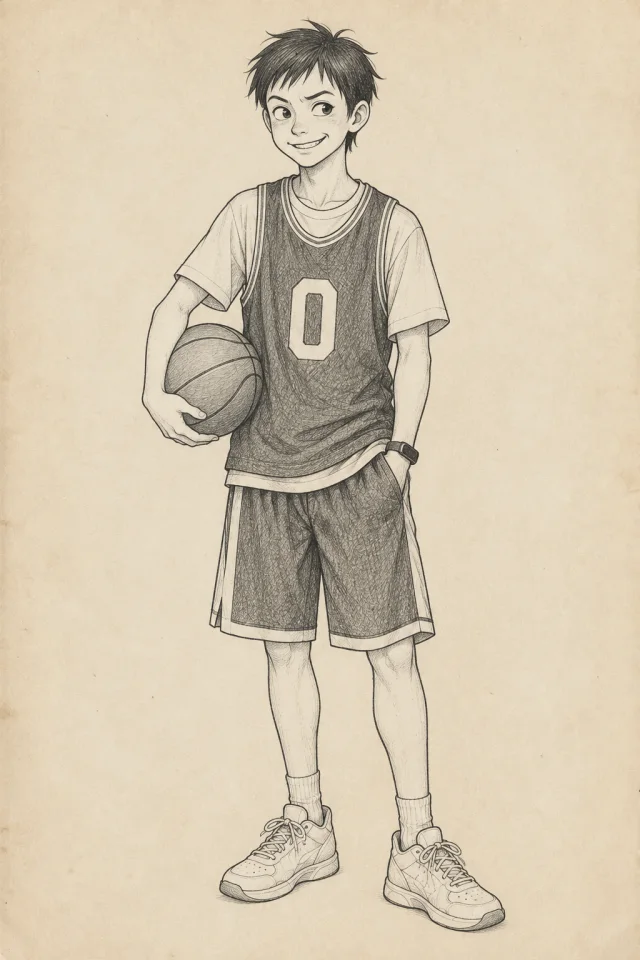
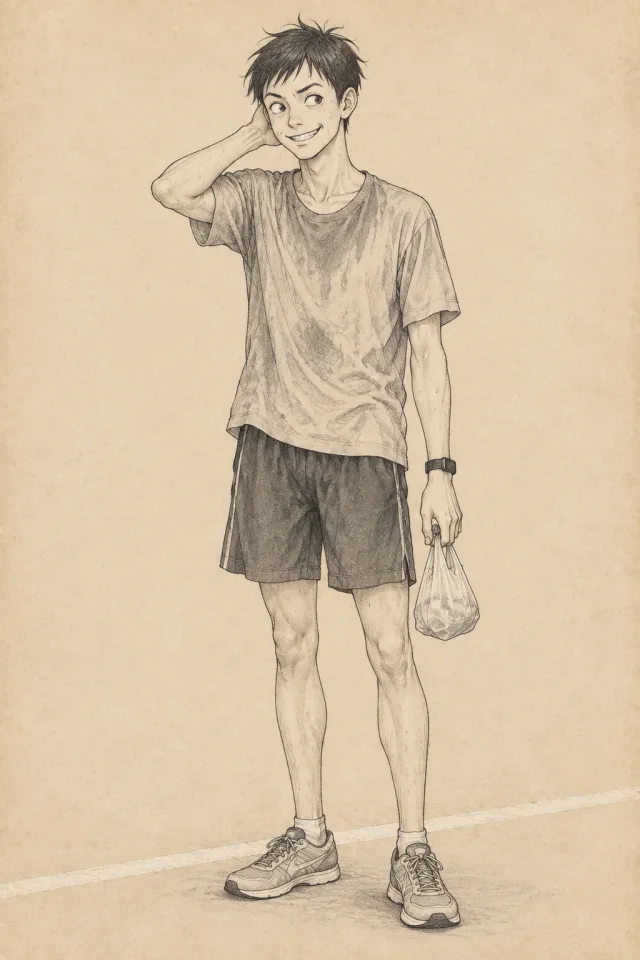
lingjing 今线 人物志: the eight repainted as they first appear in 今 · 一 (Hanli 「衣着按照出场时的画」) — 沈芒 at eighteen after the 1000 m, 周禾 in the volunteer vest, 马小宝 at the stall, 雷老师 with the stopwatch, 眼镜/老蔡 in dorm 617, 严老师 in the lecture, 葛奶奶 at the fire door; and in the book (「放到原著书里」): codex.json entries `b

Changed region(s): [[0.2188, 0.0, 0.8125, 1.0]]

diff --git a/lingjing/scripts/codex.js b/lingjing/scripts/codex.js
@@ -23,8 +23,9 @@ const linesOf = (lang, v) => {
 
 /* What each linked file gives an entry: its rows, a row's line(s), picture and credit. */
 const LINKS = {
-  // 今线's people (`line: "jin"`) are the interludes' alone: never in the 古 world's 图鉴 (同魂不同命, never said).
-  people: { rows: (f) => (f.people?.people ?? []).filter((p) => p.line !== 'jin'), lines: (r) => [r.role], credit: () => null },
+  // 今线's people (`line: "jin"`) link too: their entries are `book_only` (codex.json) — a card in the book at
+  // their first appearance, never on the game's stage or in 录's 图鉴 (同魂不同命, never said; lintCodex holds it).
+  people: { rows: (f) => f.people?.people ?? [], lines: (r) => [r.role], credit: () => null },
   // A creature's own classic line (山海经). Painted from that line since
   // 2026-09-29, its old woodcut kept as 「原图」 (`art_plate`) with the edition's name.
   creatures: {
@@ -79,6 +80,7 @@ export function resolveEntry(raw, { lang = 'zh', gender = 'male', say = (t) => t
     ...(source ? { source } : {}),
     ...(over.marks ? { marks: over.marks } : {}),
     ...(over.first ? { first: over.first } : {}),
+    ...(over.book_only ? { book_only: true } : {}),
     ...(over.tag ? { tag: over.tag } : {}),
     ...(over.becomes ? { becomes: over.becomes } : {}),
     ...(lang === 'zh' && raw.kind === '生物' && (over.pinyin ?? row?.pinyin) ? { pinyin: over.pinyin ?? row.pinyin } : {}),
@@ -155,7 +157,8 @@ export function codexBookHtml(codex, seen, { src = (p) => p, lang = 'zh', kinds 
   const title = lang === 'en' ? 'Codex' : '图鉴';
   const groups = Object.keys(kinds).map((kind) => {
     // An entry that becomes another (the nameless fox → 银月) is no slot of its own.
-    const all = [...codex.values()].filter((e) => e.kind === kind && (!e.becomes || seen.has(e.id)));
+    // A `book_only` entry (今线's people) is the book's card alone: no slot here.
+    const all = [...codex.values()].filter((e) => e.kind === kind && !e.book_only && (!e.becomes || seen.has(e.id)));
     if (!all.length) return '';
     const met = all.filter((e) => seen.has(e.id));
     const name = pickOf(lang)(kinds[kind]) ?? kind;
@@ -188,6 +191,7 @@ export function lintCodex(files, exists = () => true) {
     if (e.by_hero && !(Object.hasOwn(e.by_hero, 'male') && Object.hasOwn(e.by_hero, 'female'))) bad.push(`${id}: by_hero names both male and female`);
     if (e.first && typeof e.first !== 'object') bad.push(`${id}: first is {book, scene}`);
     if (e.becomes != null && !(codex.entries ?? {})[e.becomes]) bad.push(`${id}: becomes ${e.becomes}, which is no entry`);
+    if (e.book_only != null && e.book_only !== true) bad.push(`${id}: book_only is true or absent`);
     const isItem = e.kind ? e.kind === '物品' : (files.items?.items ?? []).some((i) => i.id === id);
     if (isItem && !ITEM_TAGS.includes(e.tag)) bad.push(`${id}: an item's entry is tagged ${ITEM_TAGS.join(' · ')} — an everyday thing has none`);
   }
@@ -199,6 +203,7 @@ export function lintCodex(files, exists = () => true) {
   }
   for (const [id, r] of raw) {
     if (!r.kind || !kinds[r.kind]) bad.push(`${id}: no kind`);
+    if (r.row?.line === 'jin' && r.over.book_only !== true) bad.push(`${id}: a 今线 person is book_only — never in the game's 图鉴`);
     const e = resolveEntry(r);
     if (!(r.over.name ?? r.row?.name)?.zh) bad.push(`${id}: no name`);
     if (!r.row && !(Array.isArray(r.over.lines?.zh) && r.over.lines.zh.length && Array.isArray(r.over.lines?.en))) bad.push(`${id}: lines in zh and en`);

diff --git a/lingjing/tools/paint-jin-codex.py b/lingjing/tools/paint-jin-codex.py
@@ -38,45 +38,66 @@ FACE = ('The attached drawing is the SAME PERSON in another life: keep ONLY the 
 STYLE_REF = ('The attached drawing is only a STYLE reference (fine ink line, soft grey wash, warm aged paper, one '
              'full-length figure on bare paper); do not copy its person, dress or props.')
 
-# id: (reference portrait in art/people, subject) — from 定例 § 三 and the interludes' own lines.
+# id: (reference portrait in art/people, subject) — Hanli 2026-10-05: 「衣着按照出场时的画」 — each as he or she
+# FIRST appears in the interludes (all in 插曲01, 今 · 一): what the text puts on them and in their hands, in that
+# place; what it leaves out comes from 定例 § 三, never an invented prop.
+ADULT = ('Clearly a young ADULT man of eighteen, a college freshman — NOT a boy, NOT a young teenager: adult height and '
+         'proportions (head about one-seventh of his height), a longer, leaner adult face with a defined jaw and cheekbones, an Adam\'s '
+         'apple, a faint shadow of stubble on the upper lip; he must look as old as any university student, not a '
+         'schoolboy — drawn as realistically as an adult figure, not as a cartoon child.')
 SUBJECTS = {
-  'jin-shenmang': ('xiaoman', 'Shen Mang, a Chinese young man of EIGHTEEN, a first-year college student: 176 cm, thin and '
-                   'not muscular at all, a lean face with bright cheeky eyes and a crooked half-guilty grin (he is about '
-                   'to make an excuse). Short messy modern black hair. A loose sleeveless basketball jersey whose only '
-                   'marking is a big plain number 0 on the chest, over a white T-shirt, baggy basketball shorts, cheap '
-                   'white sneakers, a cheap black fitness band on his left wrist; a basketball tucked under one arm. Full length.'),
-  'jin-ahe': ('ahe-girl', 'Zhou He, a Chinese young woman of TWENTY, a second-year sports rehabilitation student and the '
-              'manager of the college basketball team — clearly a grown young woman, NOT a girl: adult height and '
-              'proportions, a slimmer, longer adult face, a calm deadpan look, not smiling, a neat ponytail tied with a hair tie. A zip-up team '
-              'track jacket with the sleeves pushed up to the elbows, track trousers, white sneakers. She holds a small '
-              'open notebook and a ballpoint pen, writing something down; a pocket calculator in the other hand. Plain, '
-              'no logos. Full length.'),
-  'jin-maxiaobao': ('maxiaobao', 'Ma Xiaobao, a Chinese young man of TWENTY-ONE, very tall (193 cm) and heavy (98 kg), a '
-                    'big centre on the basketball team: a round smug but good-natured grinning face. Short modern hair. An '
-                    'expensive oversized plain hoodie, basketball shorts, big expensive high-top basketball sneakers, a '
-                    'chunky wristwatch, over-ear headphones hanging round his neck; he weighs a big plastic protein shaker '
-                    'bottle in his palm as if judging how heavy it is. No logos. Full length.'),
-  'jin-ge': ('wupo', 'Granny Ge, a Chinese woman of SEVENTY-TWO, a retired rare-books restorer rehired at the university '
-             'library: clear, sharp, kindly eyes (NOT blind), deeply wrinkled, grey hair in a small bun. A plain modern '
-             'cardigan over a blouse, dark-blue cloth oversleeves on both forearms, reading glasses hanging on a thin chain '
-             'round her neck, a pencil in one hand. Sitting on a plain wooden chair, an old thread-bound book open on her '
-             'lap (its pages blank). Full length.'),
-  'jin-lei': ('qulao', 'Coach Lei, a Chinese PE teacher in his forties, head coach of the college basketball team: stocky, '
-              'a square face tanned very dark like braised beef, short cropped hair, mouth open bellowing an order, holding '
-              'up three fingers. A plain zip-up tracksuit, a whistle on a lanyard round his neck, a stopwatch in the other '
-              'hand, sports shoes. No logos. Full length.'),
-  'jin-yanjing': ('qulao', 'Lin Yuan, nicknamed Specs, a Chinese young man of EIGHTEEN, a first-year student: tall and thin, '
-                  'a dead-serious face, pushing his glasses up his nose with one finger. Short neat hair. A plain checked '
-                  'shirt over a T-shirt, jeans, canvas shoes; a library book held under one arm (plain cover). Full length.'),
-  'jin-laocai': ('qulao', 'Old Cai, a Chinese young man of nineteen, a first-year student: clearly PLUMP and soft — a round '
-                 'chubby face with full cheeks and a double chin, a round soft belly under the hoodie — a sleepy '
-                 'half-awake face with drooping eyelids, his short hair squashed flat on one side from the pillow. A '
-                 'baggy plain hoodie, track trousers, plastic slippers; a fat paperback novel held against his chest '
-                 '(plain cover). Full length.'),
-  'jin-yan': ('qulao', 'Teacher Yan, a Chinese lecturer in his fifties who teaches acupuncture: upright and proper, a '
-              'stiff correct face, neatly combed short greying hair, rimmed glasses. A crisp white lab coat buttoned over '
-              'a shirt and tie, trousers, leather shoes; holding a closed textbook against his chest (plain cover). Full length.'),
+  # 9/11, the 1000 m fitness test (体测): ran himself out at 400 m, 「提着一袋自己的午饭」 walked the lap; a 99-yuan band (定例).
+  'jin-shenmang': ('xiaoman+jin-yanjing', f'Shen Mang, a Chinese student of EIGHTEEN, 176 cm. {ADULT} Thin and not muscular at all, '
+                   'drenched in sweat and out of breath after a 1000-metre fitness-test run, yet with the same bright '
+                   'cheeky eyes and a sheepish crooked grin. Short messy modern black hair. A plain sweat-soaked T-shirt, '
+                   'plain athletic shorts, ordinary running shoes, a cheap black fitness band on his left wrist; he carries '
+                   'a small tied plastic bag in one hand. The white line of a running track at his feet. Full length.'),
+  # 9/11, the same finish line: 「一双白球鞋、一截蓝色的志愿者马甲、一只攥着小本子的手」; the ponytail from 定例 / the 招新摊.
+  'jin-ahe': ('ahe-girl', 'Zhou He, a Chinese young woman of TWENTY, a second-year student volunteering at the freshman '
+              'fitness test — clearly a grown young woman, NOT a girl: adult height and proportions, a slimmer, longer adult '
+              'face, a calm deadpan look, not smiling, a neat ponytail. A plain blue volunteer vest (mesh tabard, no '
+              'lettering) over a white T-shirt, plain trousers, white sneakers. She grips a small notebook and writes in it '
+              'with a ballpoint pen. The white line of a running track at her feet. Full length.'),
+  # 9/12, the basketball team's stall at the club fair: 「一米九几，手腕上一块表，手里一只大摇杯」, 「锅盖似的手」, his sneakers;
+  # 定例: 贵球鞋, 耳机挂脖子.
+  'jin-maxiaobao': ('maxiaobao', 'Ma Xiaobao, a Chinese young man of TWENTY-ONE, very tall (193 cm) and heavy (98 kg), with '
+                    'huge hands like pot lids: a round smug but good-natured grinning face. Short modern hair. A plain '
+                    'oversized T-shirt and basketball shorts in early-autumn heat, big expensive high-top basketball '
+                    'sneakers, a chunky wristwatch, over-ear headphones hanging round his neck; he weighs a big plastic '
+                    'protein shaker bottle in his palm as if judging how heavy it is. No logos. Full length.'),
+  # 9/22, the library basement: 「门里出来一个老太太，蓝布套袖，老花镜挂在链子上」; 定例: a pencil always in hand.
+  'jin-ge': ('wupo', 'Granny Ge, a Chinese woman of SEVENTY-TWO who restores old books in a university library: clear, '
+             'sharp, kindly eyes (NOT blind), deeply wrinkled, grey hair in a small bun. A plain modern cardigan over a '
+             'blouse, dark-blue cloth oversleeves on both forearms, reading glasses hanging on a thin chain round her neck, '
+             'a pencil in one hand and NOTHING else in her hands — no book, no folder. Standing, just stepped out of a plain grey steel fire door behind her (no sign on it). '
+             'Full length.'),
+  # 9/11, the finish line: 「按停秒表，像念一张罚单」, then 「一把薅住他的后领子」; 定例: 脸晒得像一块酱牛肉, 哨子、秒表.
+  'jin-lei': ('qulao', 'Coach Lei, a Chinese PE teacher in his forties: stocky, a square face tanned very dark like braised '
+              'beef, short cropped hair, a stern face reading out a result like a traffic ticket. A plain short-sleeved '
+              'sports polo shirt, track trousers, sports shoes, a whistle on a lanyard round his neck; he holds up a '
+              'stopwatch, thumb just pressed on it. The white line of a running track at his feet. No logos. Full length.'),
+  # 9/11 night, dorm 617: 「眼镜扶了扶眼镜」, then 「从桌上拿起一本图书馆的旧书」; 定例: 瘦高.
+  'jin-yanjing': ('qulao', 'Lin Yuan, nicknamed Specs, a Chinese young man of EIGHTEEN, a first-year student, in his '
+                  'dorm at night: tall and thin, a dead-serious face, pushing his glasses up his nose with one finger. '
+                  'Short neat hair. A plain T-shirt, loose shorts, plastic slippers; in the other hand an old worn '
+                  'library book with a plain cover. Full length.'),
+  # 9/11 night, dorm 617: 「上铺的老蔡探出头」; 定例: 胖乎乎，头发总压扁一边, sleeps hugging a cultivation novel.
+  'jin-laocai': ('qulao', 'Old Cai, a Chinese young man of nineteen, a first-year student, at night on the top bunk of a '
+                 'plain metal dormitory bunk bed (the bunk is the only thing drawn): clearly PLUMP and soft — a round '
+                 'chubby face with full cheeks and a double chin, a soft round belly — sleepy drooping eyelids, his short '
+                 'hair squashed flat on one side from the pillow. A plain T-shirt and shorts; he leans his head and '
+                 'shoulders out over the bunk rail to look down, a fat paperback novel (plain cover) in one hand.'),
+  # Thursday morning, 针灸推拿学导论: writes on the board, 「粉笔敲得笃笃响」, then 「背着手一排一排地走」; 定例: 五十来岁，板正.
+  'jin-yan': ('qulao', 'Teacher Yan, a Chinese lecturer in his fifties, upright and proper: a stiff correct face, neatly '
+              'combed short greying hair. A plain long-sleeved shirt buttoned to the collar, neat trousers, leather shoes. '
+              'He walks along the rows with his hands clasped behind his back, a stick of white chalk between his fingers. '
+              'No blackboard, no writing anywhere. Full length.'),
 }
+
+
+AGE_REF = ('The SECOND attached drawing is his roommate, another eighteen-year-old freshman: draw Shen Mang at that same '
+           'age, with the same adult build and the same realistic manner of drawing a face — but with the FIRST drawing\'s '
+           'face, not the roommate\'s.')
 
 
 def ref_png(name, tmp):
@@ -88,13 +109,14 @@ def ref_png(name, tmp):
 
 def codex(key, ref, subject, out_dir):
   png = out_dir / f'{key}.png'
-  lead = FACE if ref != 'qulao' else STYLE_REF
+  refs = ref.split('+')  # the face first; a second picture (沈芒: the kept 眼镜) is the age to draw
+  lead = (FACE if refs[0] != 'qulao' else STYLE_REF) + (f' {AGE_REF}' if len(refs) > 1 else '')
   prompt = (f'Use your image generation tool to make ONE image in portrait (2:3) orientation, then save it in the current '
             f'directory as {png.name}. {lead} Subject: {subject} {MODERN} Style: {pc.STYLE} Reply with the saved file path only.')
   with tempfile.TemporaryDirectory() as tmp:
     try:
       r = subprocess.run(['codex', 'exec', '-m', 'gpt-5.5', '--skip-git-repo-check', '-s', 'workspace-write',
-                          '-i', str(ref_png(ref, tmp)), '--', prompt],
+                          *[a for n in refs for a in ('-i', str(ref_png(n, tmp)))], '--', prompt],
                          cwd=out_dir, capture_output=True, text=True, stdin=subprocess.DEVNULL, timeout=600)
     except subprocess.TimeoutExpired:
       return None, 'failed: no picture in 10 minutes'

diff --git a/lingjing/worlds/jiuding/art/CREDITS.md b/lingjing/worlds/jiuding/art/CREDITS.md
@@ -161,23 +161,22 @@ four clean; kept the ones whose face and eyes matched best.
 
 ## 今线 · 人物志 — the interludes' people (2026-10-05)
 
-Hanli's note: 「今线也补一遍人物志的图。注意和古线只保留脸一致，装扮等都是现代的。」 `people/jin-*.webp` (640×960,
-webp q84) — 沈芒, 周禾 (阿禾), 马小宝, 雷老师, 葛奶奶, 眼镜 (林远), 老蔡, 严老师 — were painted with Codex CLI's image
-generation (gpt-5.5), 2026-10-05, with `tools/paint-jin-codex.py` (the house STYLE of `tools/paint-codex.py`; age,
-build, hair and clothes from `story/jiuding-lu/今线/定例.md` § 三 and the interludes). The same souls were handed
-their 古线 portrait to keep ONLY the face: 沈芒 ← `xiaoman.webp`, 周禾 ← `ahe-girl.webp`, 马小宝 ←
-`maxiaobao.webp`, 葛奶奶 ← `wupo.webp` (吴婆婆's soul, her eyes clear); the other four were given `qulao.webp` as
-the style reference only. All modern — a jersey with a plain 0, a team track jacket and notebook, a hoodie and a
-shaker, oversleeves and reading glasses on a chain, a whistle and stopwatch, a white lab coat. Rejected on the way:
-a first 周禾 who read fifteen and a first 老蔡 who was not plump. Every picture looked at (the face, the age, no
-ancient dress, no text or seal). No outside source.
+Hanli's notes: 「今线也补一遍人物志的图。注意和古线只保留脸一致，装扮等都是现代的。」, then 「衣着按照出场时的画」.
+`people/jin-*.webp` (640×960, webp q84) — 沈芒, 周禾 (阿禾), 马小宝, 雷老师, 葛奶奶, 眼镜 (林远), 老蔡, 严老师 — were
+painted with Codex CLI's image generation (gpt-5.5), 2026-10-05, with `tools/paint-jin-codex.py` (the house STYLE of
+`tools/paint-codex.py`), each as he or she first appears in 今 · 一 (`story/jiuding-lu/今线/插曲01.md`): what the text
+puts on them and in their hands, in that place; what it leaves out from `今线/定例.md` § 三. 沈芒 after the 1000 m
+test (sweat-soaked T-shirt, a cheap band, the plastic bag), 周禾 at the finish line (blue volunteer vest, white
+sneakers, the notebook), 雷老师 with the stopwatch, 马小宝 at the club-fair stall (watch, shaker, headphones), 眼镜
+and 老蔡 in dorm 617 at night (the library book; the top bunk), 严老师 in the lecture (hands behind his back, chalk),
+葛奶奶 at the basement fire door (oversleeves, glasses on a chain, a pencil). The same souls were handed their 古线
+portrait to keep ONLY the face: 沈芒 ← `xiaoman.webp` (and the kept 眼镜 as the age to draw — alone, the boy's face
+came back fourteen), 周禾 ← `ahe-girl.webp`, 马小宝 ← `maxiaobao.webp`, 葛奶奶 ← `wupo.webp` (吴婆婆's soul, her
+eyes clear); the other four had `qulao.webp` as the style reference only. A first round in team kit (before his
+second note) is in git history. Rejected on the way: a 周禾 who read fifteen, a 老蔡 not plump, a 葛奶奶 holding a
+book the text never gives her, a 眼镜 roll that came back as a fox girl, three 沈芒 who still read fifteen. Every
+picture looked at (the dress against the text, the age, no ancient dress, no text or seal). No outside source.
 
-## 玄沉子 on the 鼋 — portrait repainted (2026-10-05)
-
-Hanli's note: 「观主是骑着鼋出场的，能画好吗」. `people/xuanchenzi.webp` (640×960, webp q84) was repainted with Codex CLI's
-image generation (gpt-5.5), 2026-10-05, from his first appearance in 03-第三回.md: the 泗水 stopped flat as a mirror and
-parted into a channel, the giant 鼋 (blue-black shell bigger than the ferry, moss-grown, its plates square by square like
-a field, a head bigger than a millstone, two squinting old eyes), and on its back the 观主 in a plain grey robe, both
-hands in his sleeves, a plain topknot (the old portrait's crown and whisk dropped — the text has neither). The old
-portrait was handed in to keep only the face. Two rolls, both looked at; kept the one with the flatter, mirror-still
-water (the other's parted water fell like a weir). The 2026-09-29 portrait is in git history. No outside source.
+The book shows them: each has a codex.json entry, `book_only` with `first.book: "j01"` — a card after the paragraph
+of their first appearance in 今 · 一; in play they keep their portrait on the stage's people row, but never get a
+first-appearance card, are never met, and have no slot in 录's 图鉴.
